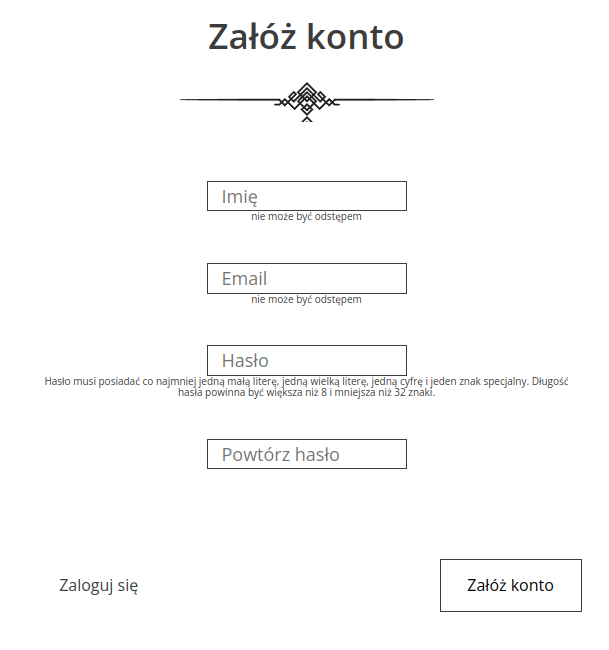
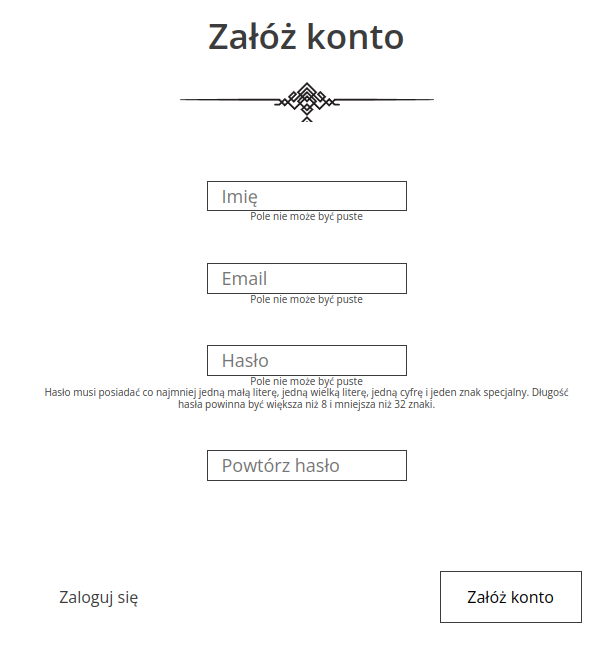
readme.md update

diff --git a/src/main/java/pl/coderslab/charity/model/User.java b/src/main/java/pl/coderslab/charity/model/User.java
@@ -26,13 +26,13 @@ public class User {
     @GeneratedValue(strategy = GenerationType.IDENTITY)
     private Long id;
 
-    @NotBlank
+    @NotBlank(message = "Pole nie może być puste")
     private String firstName;
 
-    @NotBlank
+    @NotBlank(message = "Pole nie może być puste")
     private String email;
 
-    @NotBlank
+    @NotBlank(message = "Pole nie może być puste")
     @Password(message = "Hasło musi posiadać co najmniej jedną małą literę, jedną wielką literę, jedną cyfrę i jeden znak specjalny. Długość hasła powinna być większa niż 8 i mniejsza niż 32 znaki.")
     private String password;
 

diff --git a/readme.md b/readme.md
@@ -30,6 +30,11 @@ Now that you've decided to register and help someone, you can easily do it by us
 
 ![Registration Form](images/form_registration.png)
 
+If you input an invalid password (it must contain at least one lowercase letter, one uppercase letter, one digit, and one special character, with a length between 8 and 32 characters), 
+you will receive information guiding you on what you did wrong.
+
+![Password validator](images/password-validator.png)
+
 After your registration, you will receive a success confirmation:
 
 ![Success Registration Page](images/page_activation_info.png)
